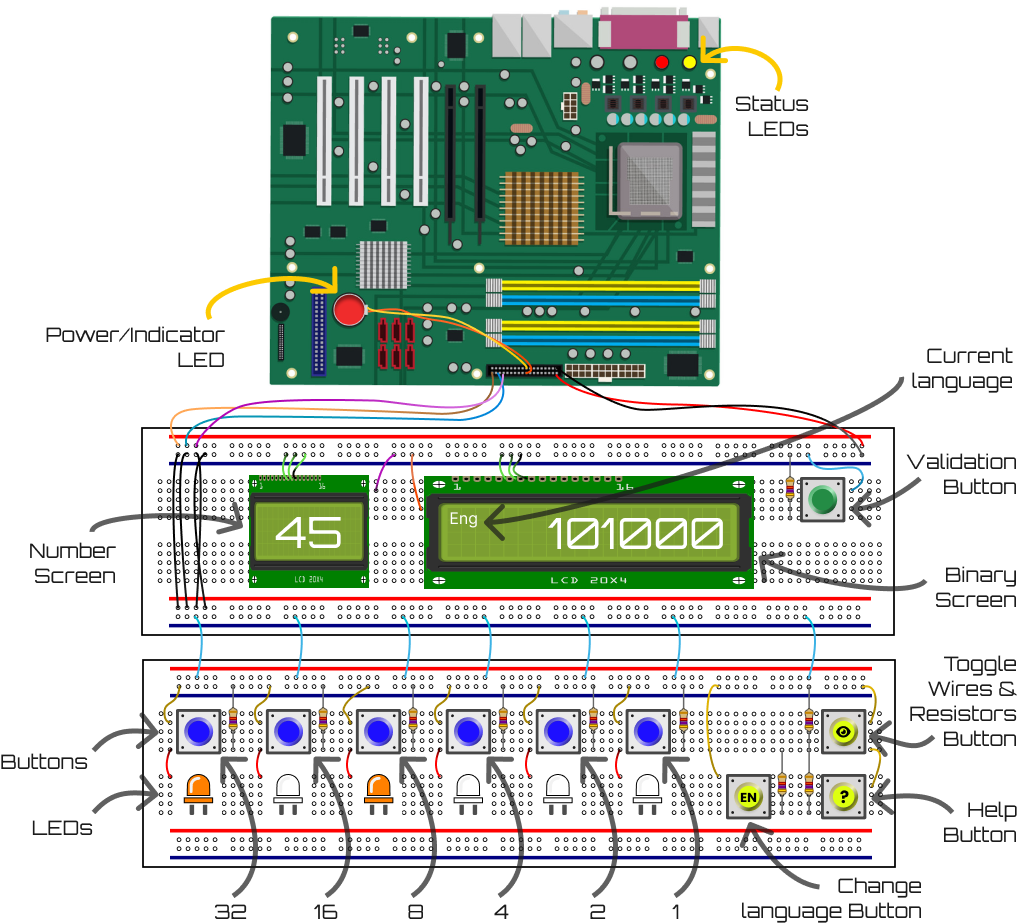
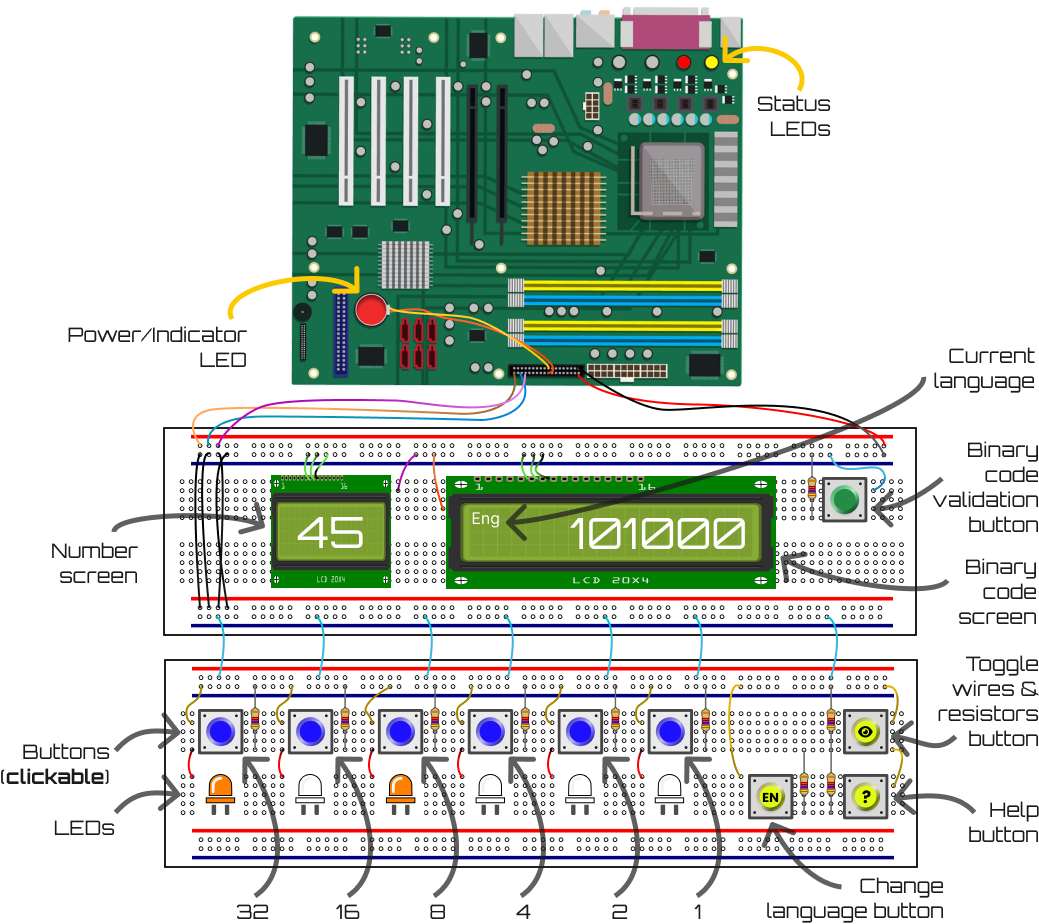
feat: adapted bin to num images for en & fr

Changed region(s): [[0.0, 0.0, 1.0, 1.0], [0.884, 0.3636, 1.0, 0.4242], [0.9145, 0.8788, 1.0, 0.9091]]

diff --git a/src/components/dialogs/bin-num-dialog/bin-num-dialog.component.html b/src/components/dialogs/bin-num-dialog/bin-num-dialog.component.html
@@ -8,7 +8,7 @@
 
     <img
       class="dialog-circuit-img"
-      src="assets/images/bin_to_num_instructions.png"
+      [src]="getImgSrc()"
       alt="binary to number instructions"
     />
 
